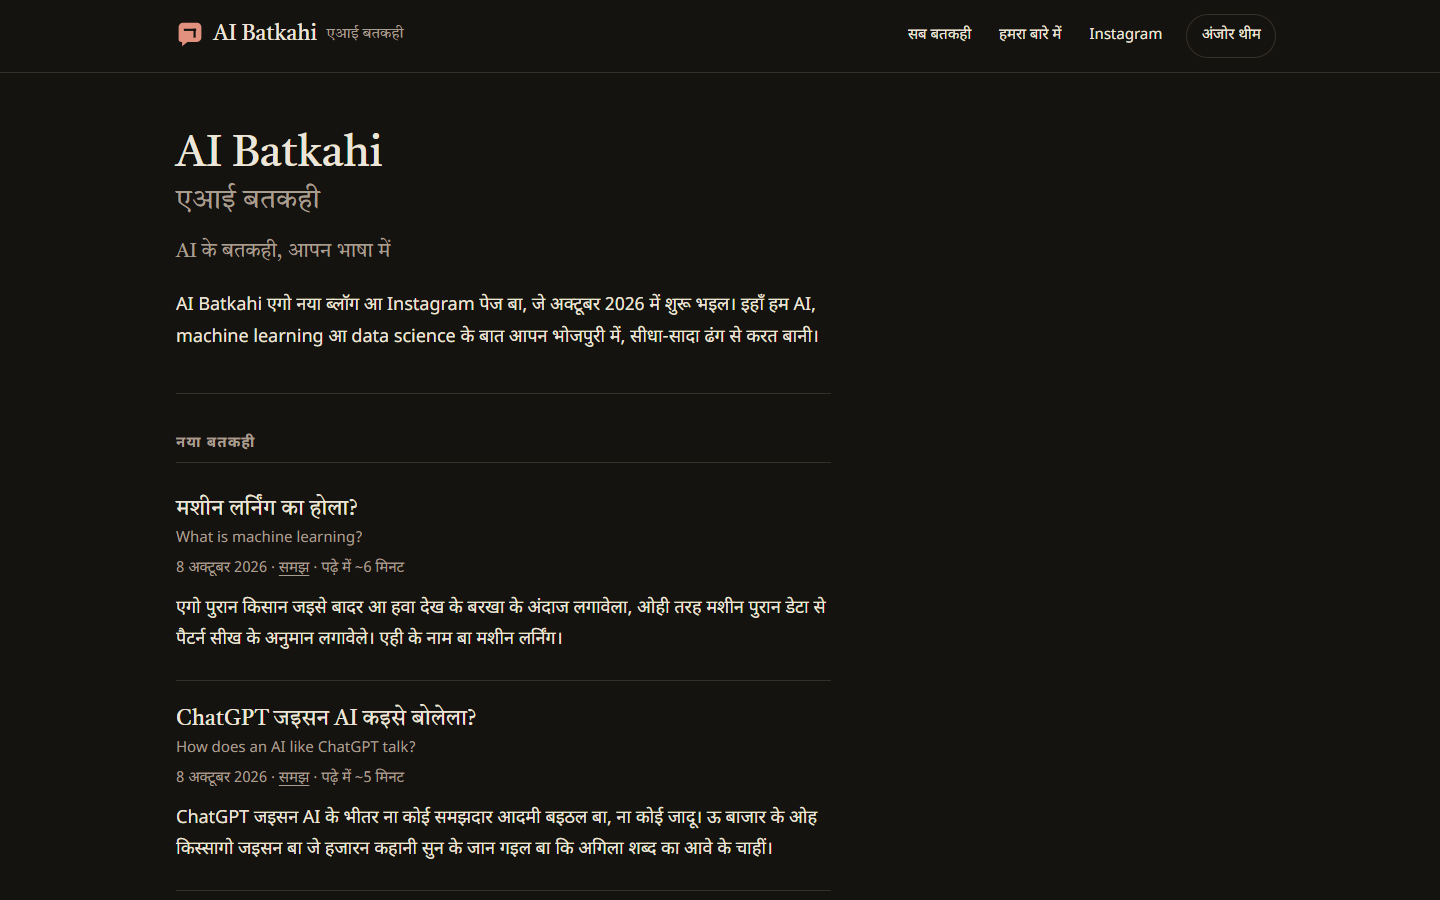
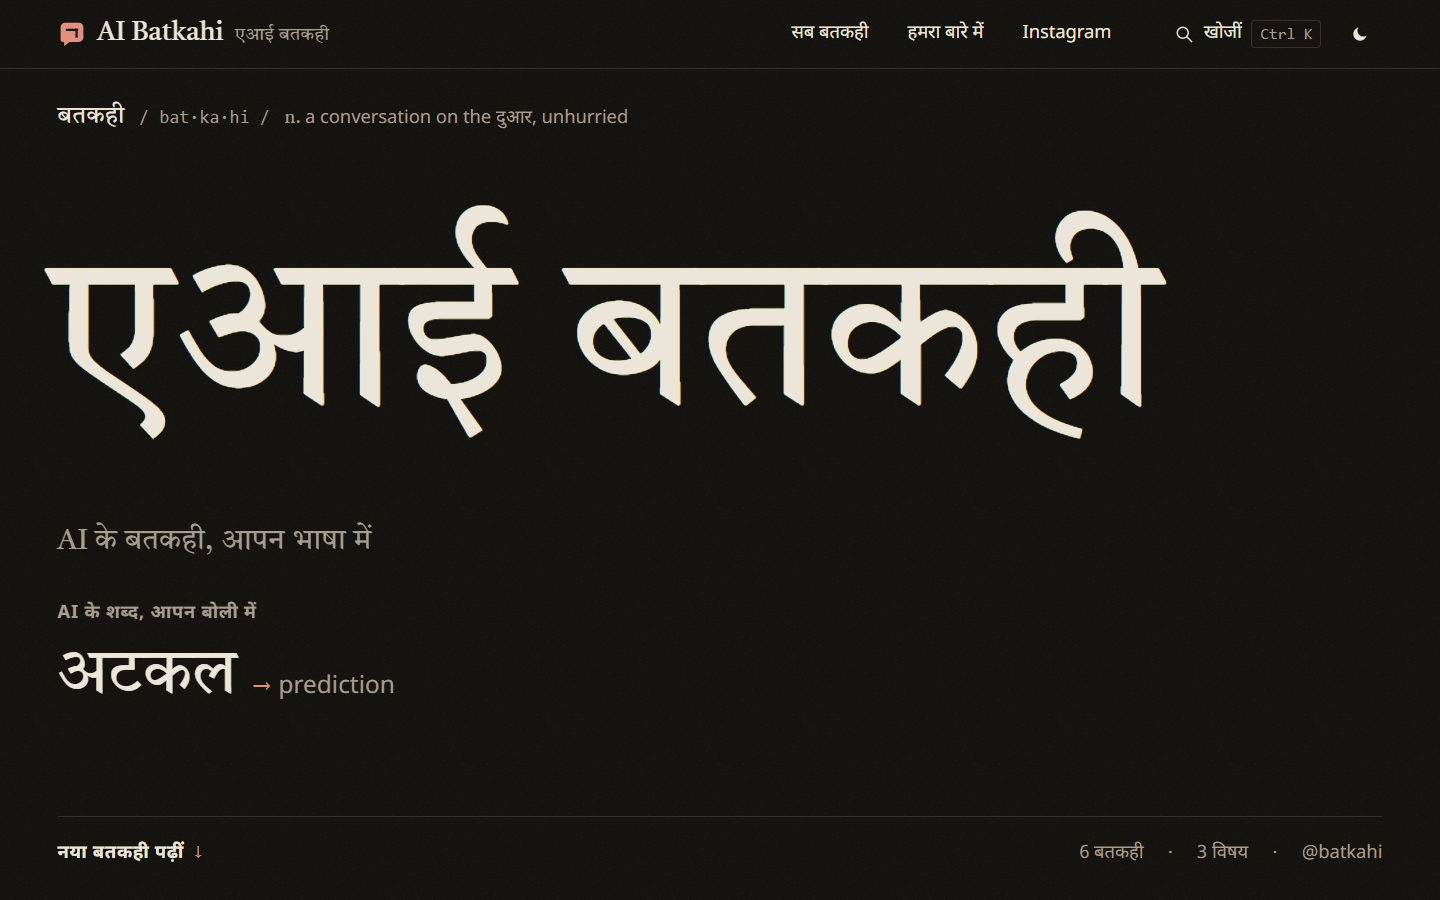
docs(verification): v2 Phase 1 live results, Lighthouse numbers, refreshed live screenshots incl. 1920/2560

diff --git a/docs/VERIFICATION.md b/docs/VERIFICATION.md
@@ -1,6 +1,63 @@
+# v2 Phase 1 — LIVE, 2026-10-08
+
+`feat/ui-v2` was fast-forwarded into `main` at `8d4a456` and deployed by `.github/workflows/pages.yml` (run 37799557793: `npm ci` → `npm test` → `npm run build` → Pages, success). Verified against https://sudish007.github.io/ai-batkahi/ in fresh headless Microsoft Edge contexts (Playwright for Python).
+
+## What changed since the local section below
+
+The six review NITs from `review-phase1.json` were folded in before the merge (commit `8d4a456`): bento last-row fill rules at 1600–2199 px (`span 3` / `span 2`) and ≥ 2200 px (`span 4` / `3` / `2`); the sticky ToC uses `margin-top: 7.5rem` instead of `padding-top` so its stuck position matches the right rail (`top: 2rem`); a 4 s `reveal-safety` keyframe makes the IntersectionObserver reveal fail-open if `main.js` never runs; `Ctrl/⌘+K` matches with Caps Lock on (`ev.key.toLowerCase()`); the `⌘ K` chip is hidden under `@media (hover: none)`; README names the audit scope (six representative pages). After the fold: `npm test` 87 / 0, `npm run audit` 658 rows / 0 failed, `styles.css` 39 062 B, `main.js` 25 977 B.
+
+## Live URLs (fresh context, 1280×800)
+
+| Page | URL | Result |
+| --- | --- | --- |
+| Home | https://sudish007.github.io/ai-batkahi/ | 200, `AI Batkahi · AI के बतकही, आपन भाषा में`, h1 `एआई बतकही — AI Batkahi` |
+| All posts | https://sudish007.github.io/ai-batkahi/posts/ | 200, `सब बतकही · AI Batkahi` |
+| Post | https://sudish007.github.io/ai-batkahi/posts/llm-kaise-bolela/ | 200, `ChatGPT जइसन AI कइसे बोलेला? · AI Batkahi` |
+| Category | https://sudish007.github.io/ai-batkahi/category/samajh/ | 200, `समझ · AI Batkahi` |
+| About | https://sudish007.github.io/ai-batkahi/about/ | 200, `हमरा बारे में · AI Batkahi` |
+| 404 | https://sudish007.github.io/ai-batkahi/does-not-exist-xyz/ | 404, custom page `पन्ना नइखे मिलल · AI Batkahi` |
+| Atom feed | https://sudish007.github.io/ai-batkahi/feed.xml | 200, `application/xml`, 6 entries |
+| Sitemap | https://sudish007.github.io/ai-batkahi/sitemap.xml | 200, `application/xml`, 12 `<loc>`, all under `/ai-batkahi/` |
+| Search index | https://sudish007.github.io/ai-batkahi/search.json | 200, `application/json`, `{v: 1, posts: [...]}` with 6 posts |
+
+The deployed `styles.css` and `main.js` contain the NIT changes (`reveal-safety`, `hover: none`, `nth-child(4n + 2)`, `toLowerCase() === "k"`).
+
+## 320 px overflow (live)
+
+`scrollWidth <= clientWidth` at 320×640 on all 13 live HTML pages (home, posts, about, 3 categories, 6 posts) plus the 404 URL: every page reports 320 / 320 → pass.
+
+## Light default under OS dark (live)
+
+Fresh context with `color_scheme="dark"` and empty storage on home and the post: `data-theme` null, `--bg` `#FAF6EF`, body background `rgb(250, 246, 239)`, `meta[color-scheme]` `light`, one `meta[theme-color]` `#FAF6EF`, `matchMedia('(prefers-color-scheme: dark)')` true, `localStorage.length` 0 → renders light.
+
+## Lighthouse 13.5.0 (mobile preset, headless Edge, live URLs)
+
+| Page | Performance | Accessibility | Best practices | SEO | LCP | CLS | TBT | FCP | LCP element |
+| --- | --- | --- | --- | --- | --- | --- | --- | --- | --- |
+| Home | 96 | 100 | 100 | 100 | **2.62 s** | 0 | 50 ms | 1.6 s | `h1#site-title` |
+| Post (llm-kaise-bolela) | 97 | 100 | 100 | 100 | 2.35 s | 0 | 150 ms | 1.0 s | lede paragraph (`.prose > p`) |
+
+Honest reading: the home LCP of 2.62 s is **above the 2.5 s target** (the post is under it at 2.35 s). The cause is the one documented below for the local run: the Lighthouse simulation counts the six preloaded `font-display: optional` woff2 files (≈ 251 KB) before the hero paint; the owner decision to keep that strategy (zero CLS) stands. Single run each; Lighthouse lab numbers vary by ~0.1 s between runs.
+
+## Screenshots (live, viewport-only, ≤ 1920 px per side)
+
+Committed under `docs/screenshots/`, captured from the deployed site:
+
+- `home-1440x900-light.png` (1440×900)
+- `home-1440x900-dark.png` (1440×900, stored `theme=dark`)
+- `home-390x844.png` (390×844)
+- `post-1440x900.png` (1440×900, `posts/llm-kaise-bolela/`)
+- `about-1440x900.png` (1440×900)
+- `home-1920x1080-light.png` (1920×1080)
+- `posts-1920x1080-light.png` (1920×1080, three-column card grid)
+- `post-1920x1080-light.png` (1920×1080, ToC rail + right rail)
+- `home-2560x1440-light.png` (2560×1440 viewport at `device_scale_factor` 0.75 → 1920×1080 PNG; container at ~92 % of the viewport)
+
+---
+
 # v2 Phase 1 — local (pre-merge), 2026-10-08
 
-Measured on `dist/` built with Node 24.16 (`engines.node >=22.2`) from branch `feat/ui-v2` and served by `scripts/serve.mjs` (gzip, like Pages) at `http://127.0.0.1:8082/ai-batkahi/`. The live run for v2 is appended by the merge step, which also refreshes `docs/screenshots/` from the deployed site.
+Measured on `dist/` built with Node 24.16 (`engines.node >=22.2`) from branch `feat/ui-v2` and served by `scripts/serve.mjs` (gzip, like Pages) at `http://127.0.0.1:8082/ai-batkahi/`.
 
 ## Tests and audit
 
